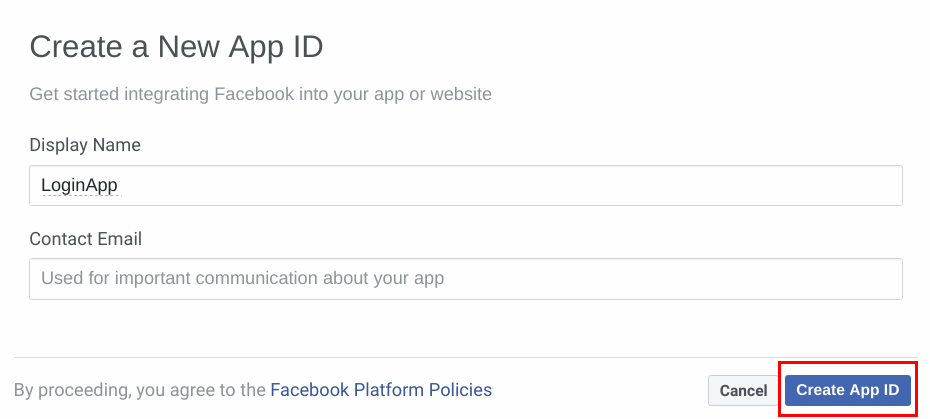
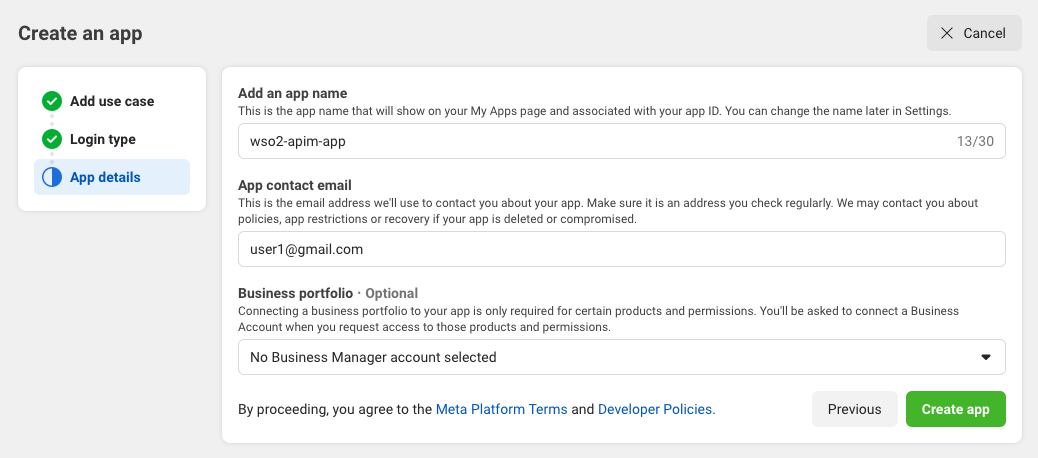
Update login to devportal with social media docs

diff --git a/en/docs/reference/customize-product/customizations/log-in-to-the-dev-portal-using-social-media.md b/en/docs/reference/customize-product/customizations/log-in-to-the-dev-portal-using-social-media.md
@@ -8,20 +8,29 @@ You can integrate WSO2 Identity Server with WSO2 API Manager and use your social
 ### Create a Facebook application
 
 1.  Go to [https://developers.facebook.com/](https://developers.facebook.com/) and log in using your Facebook credentials.
-2.  Select **My Apps** in the navigation and create a new app by clicking **Create App** .
-3.  Enter the name of your app and your email address. Click **Create App ID** .
+2.  Select **My Apps** in the navigation and create a new app by clicking **Create App**.
+3.  Select **Authenticate and request data from users with Facebook Login** and click **Next**.
+
+    ![Select Facebook login app]({{base_path}}/assets/img/learn/select-facebook-login-app.png)
+
+4.  Select **No, I'm not building a game** as the login type and click **Next** to proceed to create the app.
+
+    ![Select Facebook login type]({{base_path}}/assets/img/learn/select-facebook-login-type.png)
+
+5.  Enter the name of your app and your email address. Click **Create App**.
 
     ![Create new facebook app]({{base_path}}/assets/img/learn/create-facebook-app.png)
 
-4.  Click **Set Up** to create a **Facebook Login** product.
+6.  Click **Customize adding a Facebook Login button** under **Customize this app** section in your created app dashboard.
+7.  Select **Go to quickstart** in the **Quickstart** section.
 
-    ![Setup facebook login product]({{base_path}}/assets/img/learn/setup-facebook-login-app.png)
+    ![Facebook quickstart]({{base_path}}/assets/img/learn/customize-facebook-login.png)
 
-5.  Select **Web** to work with this sample. You can select any other platform you wish to use.
+8.  Select **Web** to work with this sample. You can select any other platform you wish to use.
 
     ![Setup facebook login product]({{base_path}}/assets/img/learn/web-facebook-login-app.png)
 
-6.  Add the `serverURL` of WSO2 Identity Server (which is configured with `offset` = 1) <https://localhost:9444/> and click **Save** and **Continue** .
+9.  Add the `serverURL` of WSO2 Identity Server (which is configured with `offset` = 1) <https://localhost:9444/> and click **Save** and **Continue** .
 
     !!! info
         If you have changed the hostname of identity server use that instead of `localhost`.
@@ -30,12 +39,12 @@ You can integrate WSO2 Identity Server with WSO2 API Manager and use your social
 
     ![Add facebook Identity Server URL]({{base_path}}/assets/img/learn/add-facebook-is-server-url.png)
 
-7.  Go to **Set Up the Facebook SDK for JavaScript** and click **Next** until the steps are complete.
-8.  Click **Settings** and select **Basic**. You can find your `App ID` and the `App Secret` as shown in the image below.
+10.  Go to **Set Up the Facebook SDK for JavaScript** and click **Next** until the steps are complete.
+11.  In the app dashboard under **App settings**, Click **Settings** and select **Basic**. You can find your `App ID` and the `App Secret` as shown in the image below.
 
     ![Facebook App Id]({{base_path}}/assets/img/learn/appCredentials-facebook.png)
 
-9.  Select a **Category** for you application.
+    Additionally, Select a **Category** for you application.
 
     ![Facebook App Category]({{base_path}}/assets/img/learn/facebook-app-category.png)
 
@@ -43,7 +52,11 @@ You can integrate WSO2 Identity Server with WSO2 API Manager and use your social
 
     ![Facebook Site URL]({{base_path}}/assets/img/learn/facebook-site-url.png)
     
-10. Click on the new **Facebook Login** product you have added and configure it as follows.
+12. Select **Go to settings** in the **Settings** section under **Facebook Login**.
+
+    ![Facebook Login Settings]({{base_path}}/assets/img/learn/customize-facebook-login-settings.png)
+
+13. Click on the new **Facebook Login** product you have added and configure it as follows.
 
     ![Facebook Login App Settings]({{base_path}}/assets/img/learn/facebook-login-app-settings.png)
 
